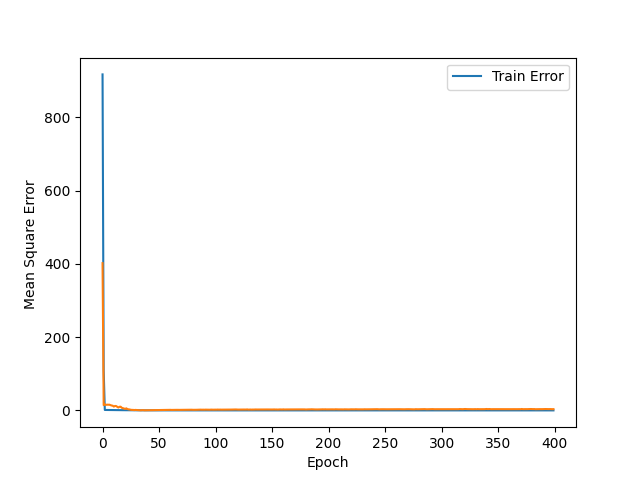
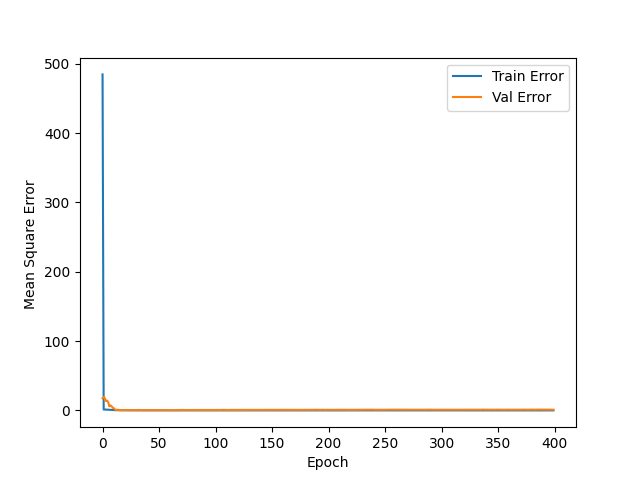
creating predictions plot
to fix

diff --git a/feedforward.py b/feedforward.py
@@ -113,20 +113,11 @@ def main():
     print("hist_tail",hist.tail())
 
     # Predictions
-    predictions = model.predict(train_features[:10])
+    predictions = model.predict(train_features)
+    print("predictions",predictions.shape)
 
 
     "--Plots--"
-    #plt.figure(figsize=(30,10))
-    #plt.plot(range(1,401),model_history.history["val_loss"])
-    #plt.plot(range(1,401),model_history.history["loss"])
-    #plt.legend(["Val Mean Sq Error (Val Loss)","Train Mean Sq Error (Train Loss)"])
-    #plt.xlabel("EPOCHS")
-    #plt.ylabel("Mean Sq Error")
-    #plt.xticks(range(1,401))
-    #plt.show()
-    #plt.savefig('data/Val and train mean sq errors.png')
-
     def plot_history(history):
         hist = pd.DataFrame(model_history.history)
         hist['epoch'] = model_history.epoch
@@ -143,9 +134,18 @@ def main():
         plt.xlabel('Epoch')
         plt.ylabel('Mean Square Error ')
         plt.plot(hist['epoch'], hist['mean_squared_error'], label='Train Error')
-        plt.plot(hist['epoch'], hist['val_mean_squared_error'])
+        plt.plot(hist['epoch'], hist['val_mean_squared_error'], label='Val Error')
         plt.legend()
         plt.savefig(CWD + '/figures/Mean Square Error.png')
+        plt.show()
+
+        plt.figure()
+        plt.xlabel('Epoch')
+        plt.ylabel('Prediction values')
+        plt.legend(["Train data", "Test data"])
+        plt.plot(train_target)
+        plt.plot(predictions)
+        plt.savefig(CWD + '/figures/Predictions.png')
         plt.show()
 
 

diff --git a/groundtruth.py b/groundtruth.py
@@ -25,10 +25,11 @@ def Torque(F,MA):
     TRQ = []
     TRQ_VAL = np.zeros([len(F),1]);
     TRQ_VAL[:] = F.iloc[:]*MA
-    for i in range(n):
-        if n in range((i*1024),((i+1)*1024)):
+    len_window = 1024;
+    for i in range(0,n,512):
+        if n in range(i,(i+len_window)):
             break
-        z = TRQ_VAL[(i*1024):((i+1)*1024)]; 
+        z = TRQ_VAL[i:(i+len_window)]; 
         TRQ.append(np.sum(abs(z))/len(z))
     TRQ = np.array(TRQ);
     return TRQ

diff --git a/features.py b/features.py
@@ -20,10 +20,10 @@ def fMAV(y):
     n = len(y);
     mav = []
     len_window = 1024;
-    for i in range(n):
-        if n in range((i*1024),((i+1)*1024)):
+    for i in range(0,n,512):
+        if n in range(i,(i+len_window)):
             break
-        z = y[(i*1024):((i+1)*1024)];
+        z = y[i:(i+len_window)];
         mav.append(np.sum(abs(z))/len(z))
     mav = np.array(mav);
     return mav
